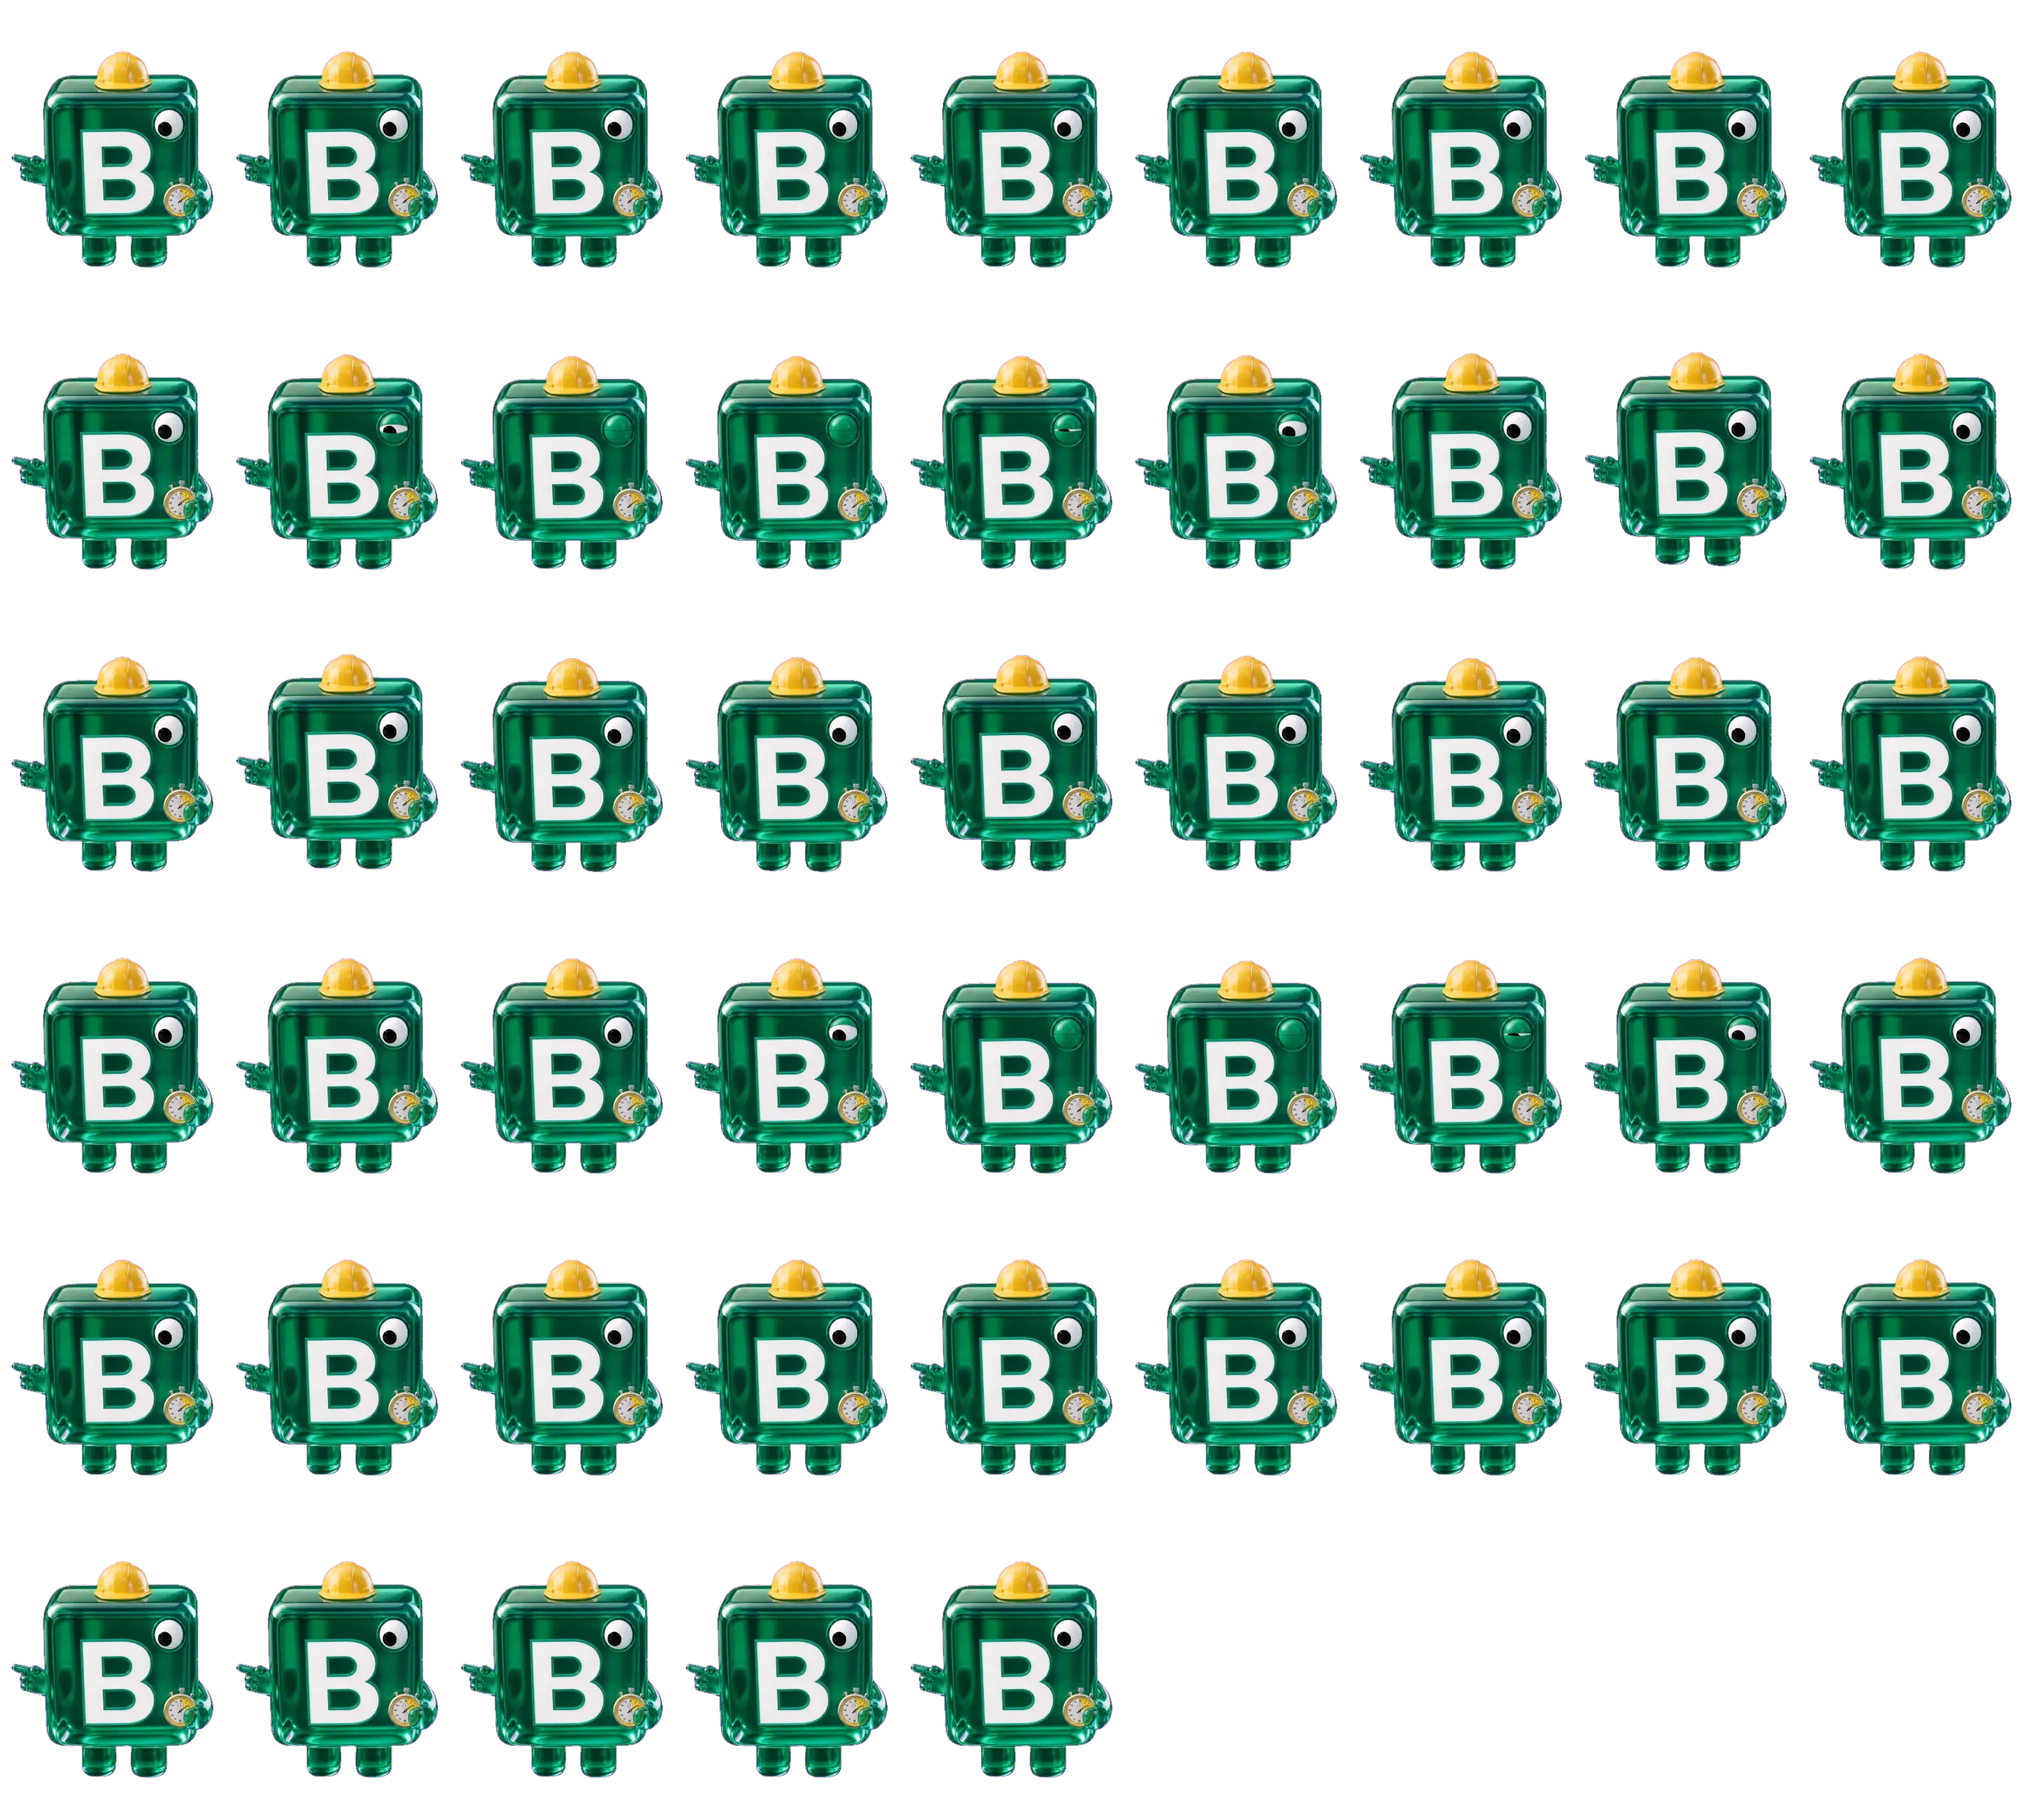
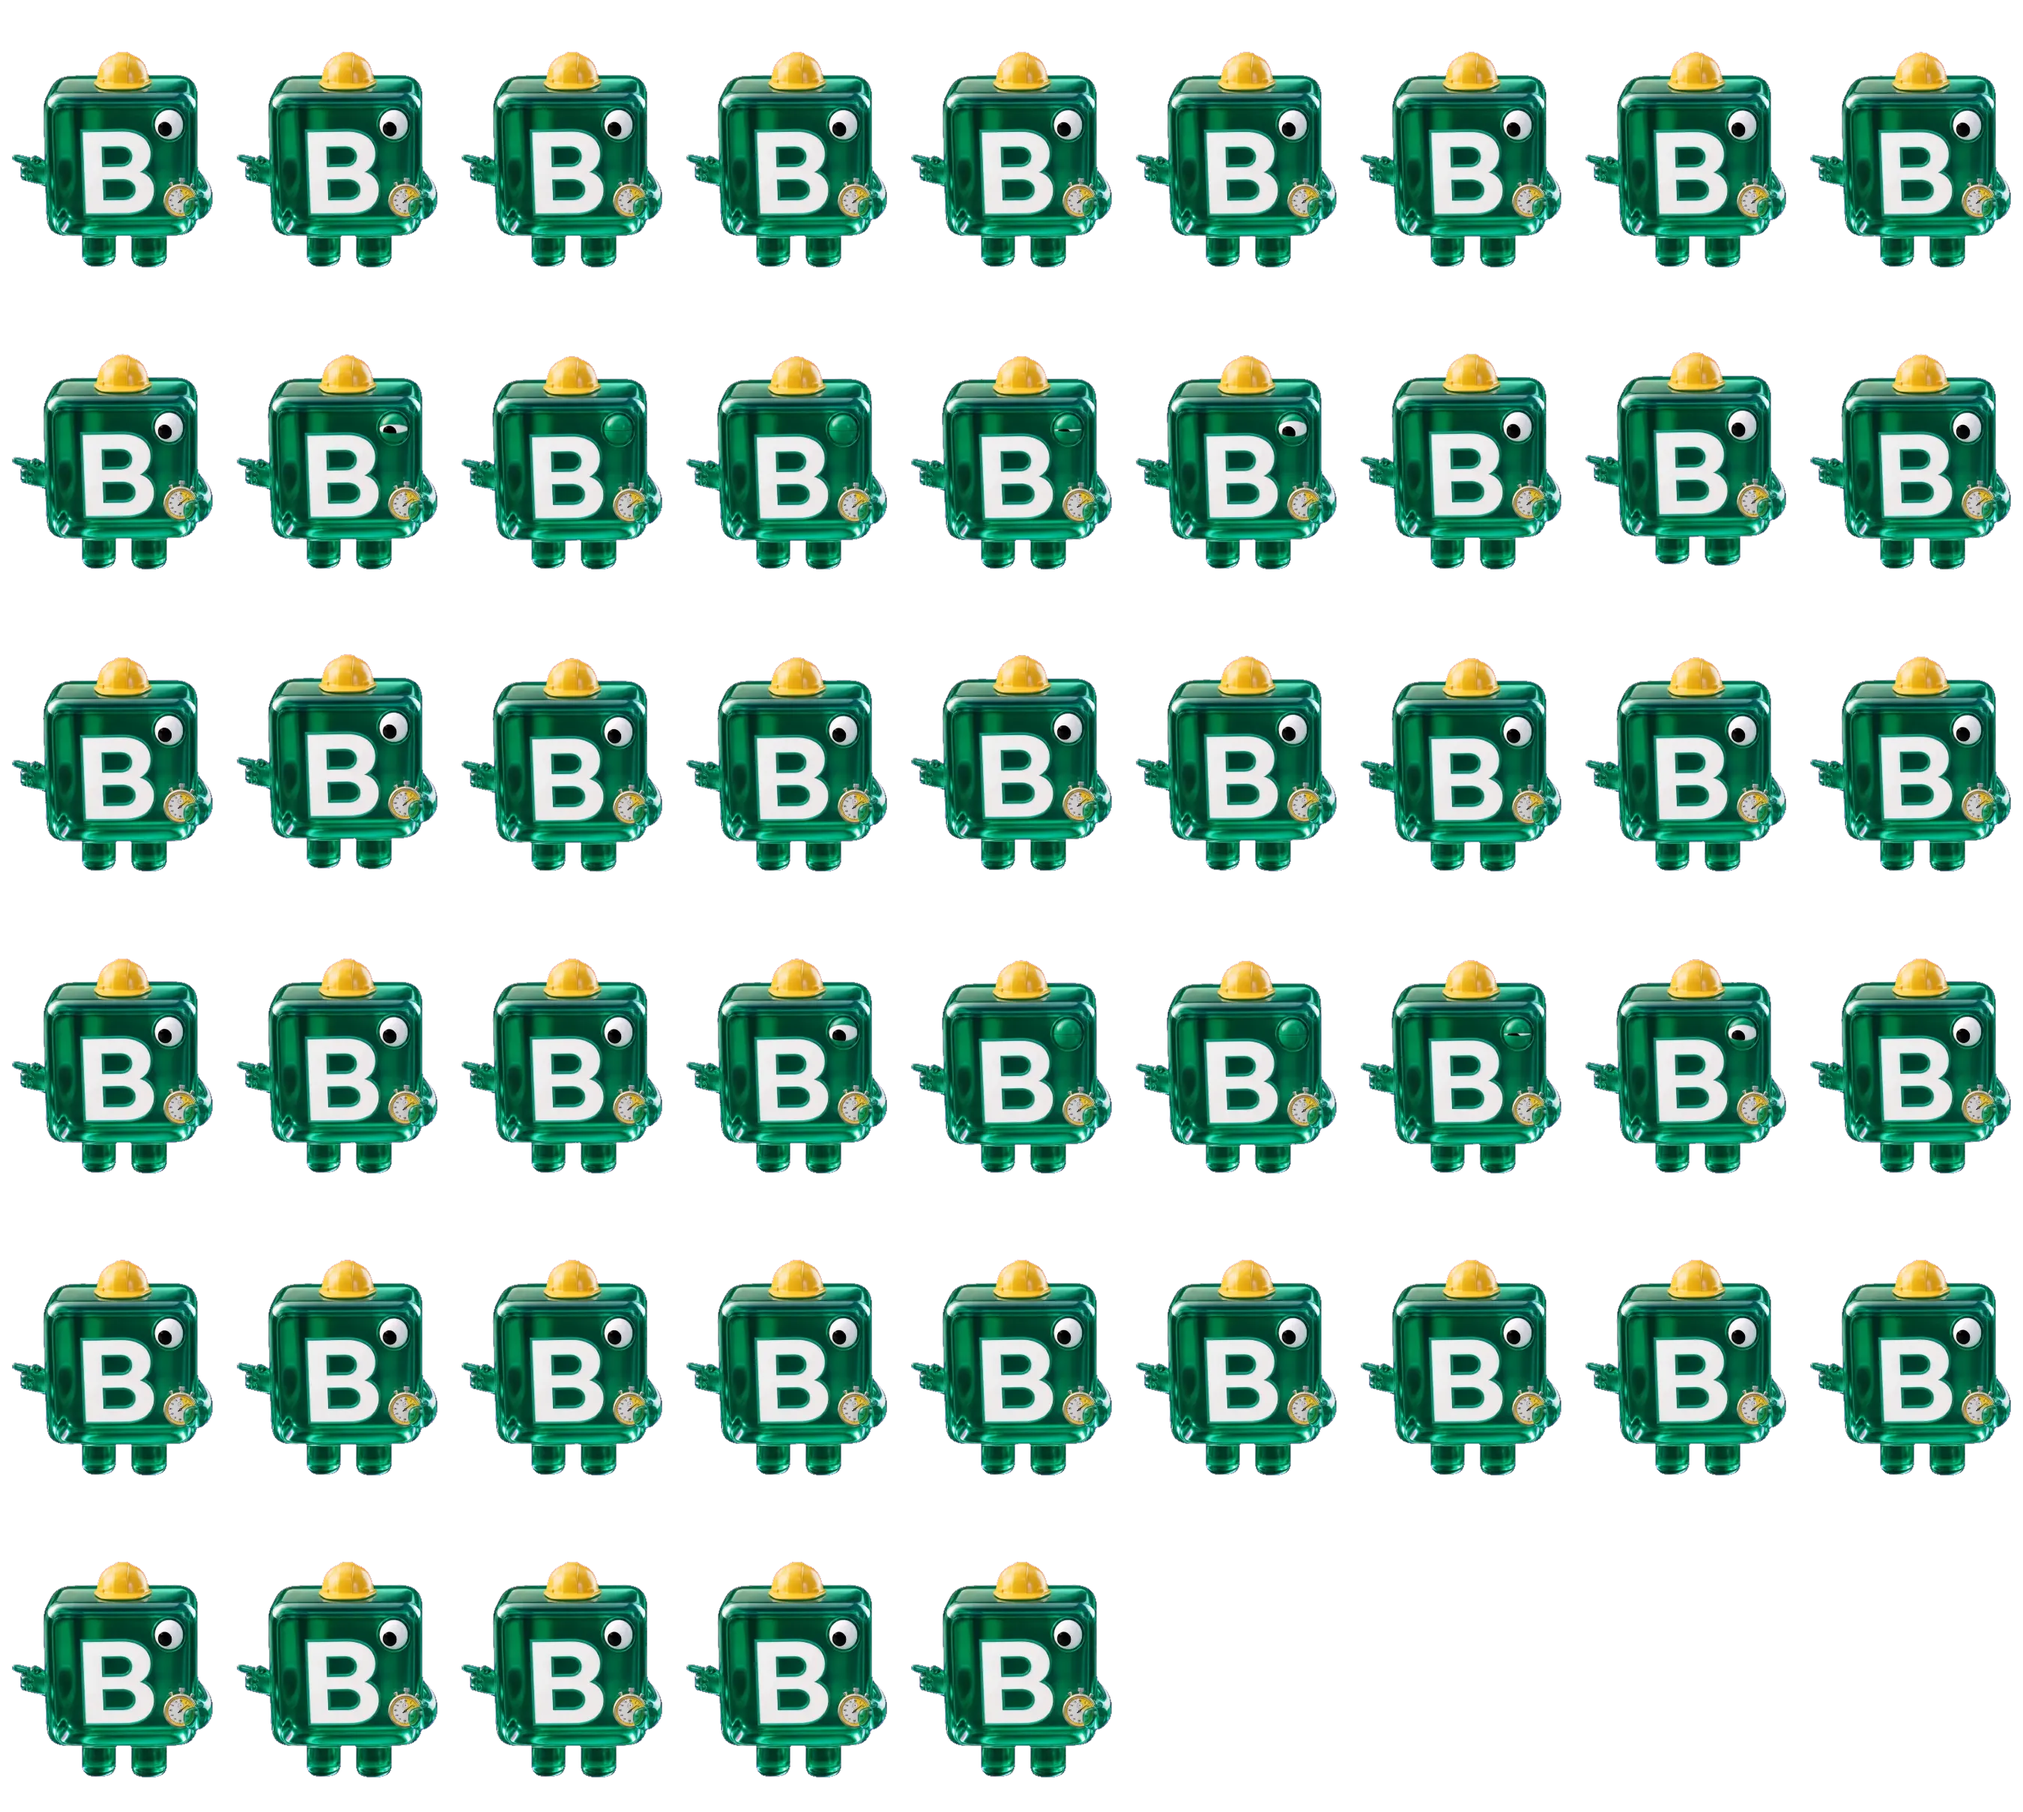
Alla fem maskotscener är riktig film: Seedance 2.5-loopar som ark med alfa
Förstoringsglaset (tittar omkring genom luppen), telefonen (vinkar, mobilen
surrar), surfplattan (visar sajten, nickar), fikat (tar en klunk) och
stoppuret — 4 × 12,5 credits till, 62,5 totalt för filmerna. Varje scen är
ett 300 px-ark med 50 rutor i 10 fps, 480–850 kB, laddas först när figuren
närmar sig bild. Nycklingen skärpt: magentaaktiga pixlar (springor,
skuggor) blir genomskinliga och rosa stick dras bort överallt. SVG-ögat
(MaskotScen) finns kvar som komponent men används inte längre på startsidan.

diff --git a/web/app/(sajt)/page.js b/web/app/(sajt)/page.js
@@ -2,7 +2,6 @@ import Link from 'next/link';
 import HeroBygge from '../komponenter/HeroBygge';
 import HeroVideo from '../komponenter/HeroVideo';
 import Maskot from '../komponenter/Maskot';
-import MaskotScen from '../komponenter/MaskotScen';
 import MaskotFilm from '../komponenter/MaskotFilm';
 import Marquee from '../komponenter/Marquee';
 import Rakna from '../komponenter/Rakna';
@@ -141,12 +140,11 @@ export default function Start() {
                 Så bygger vi {PIL}
               </Link>
             </div>
-            {/* Ögat sitter bakom luppen — rendern får vara som den är */}
-            <MaskotScen
+            <MaskotFilm
               className={styles.panelFigur}
-              src="/img/maskot-scener/forstoringsglas.webp"
+              still="/img/maskot-film/forstoringsglas-still.webp"
+              ark={{ src: '/img/maskot-film/forstoringsglas.webp', fps: 10, ramar: 50, kolumner: 9, bredd: 300, hojd: 403 }}
               alt="Bahko-maskoten granskar en mobil med ett förstoringsglas"
-              index={1}
             />
           </div>
           <div className={styles.panelScen}>
@@ -169,11 +167,10 @@ export default function Start() {
               </p>
             </div>
             <div className={styles.tjanstMaskot}>
-              <MaskotScen
-                src="/img/maskot-scener/ringer.webp"
+              <MaskotFilm
+                still="/img/maskot-film/ringer-still.webp"
+                ark={{ src: '/img/maskot-film/ringer.webp', fps: 10, ramar: 50, kolumner: 9, bredd: 300, hojd: 403 }}
                 alt="Bahko-maskoten i bygghjälm håller upp en mobil som ringer"
-                oga={{ x: 65.9, y: 38.4, rx: 4.7, ry: 3.7, gron: 'rgb(33,127,94)' }}
-                index={2}
               />
             </div>
           </div>
@@ -213,12 +210,11 @@ export default function Start() {
               <h3>Se er nya hemsida innan ni bestämmer er.</h3>
               <p>Komplett förslag inom 48 timmar. Det kostar ingenting att titta.</p>
             </div>
-            <MaskotScen
+            <MaskotFilm
               className={styles.processScen}
-              src="/img/maskot-scener/visar-sajten.webp"
+              still="/img/maskot-film/visar-sajten-still.webp"
+              ark={{ src: '/img/maskot-film/visar-sajten.webp', fps: 10, ramar: 50, kolumner: 9, bredd: 300, hojd: 403 }}
               alt="Bahko-maskoten visar upp ett hemsideförslag på en surfplatta"
-              oga={{ x: 73.3, y: 38.9, rx: 6.45, ry: 5.0, gron: 'rgb(20,112,75)' }}
-              index={3}
             />
             <Link href="/kontakt/" className="btn btn-primar">
               Se er sida kostnadsfritt {PIL}
@@ -260,12 +256,11 @@ export default function Start() {
           </h2>
           <p className={styles.gratisMaskot}>
             <span>Båda är kostnadsfria. Ni behöver inte bestämma något idag.</span>
-            <MaskotScen
+            <MaskotFilm
               className={styles.gratisScen}
-              src="/img/maskot-scener/fikar.webp"
+              still="/img/maskot-film/fikar-still.webp"
+              ark={{ src: '/img/maskot-film/fikar.webp', fps: 10, ramar: 50, kolumner: 9, bredd: 300, hojd: 403 }}
               alt="Bahko-maskoten sitter på en hög plankor och fikar"
-              oga={{ x: 72.7, y: 40.1, rx: 3.85, ry: 3.5, gron: 'rgb(28,147,96)' }}
-              index={4}
             />
           </p>
 
